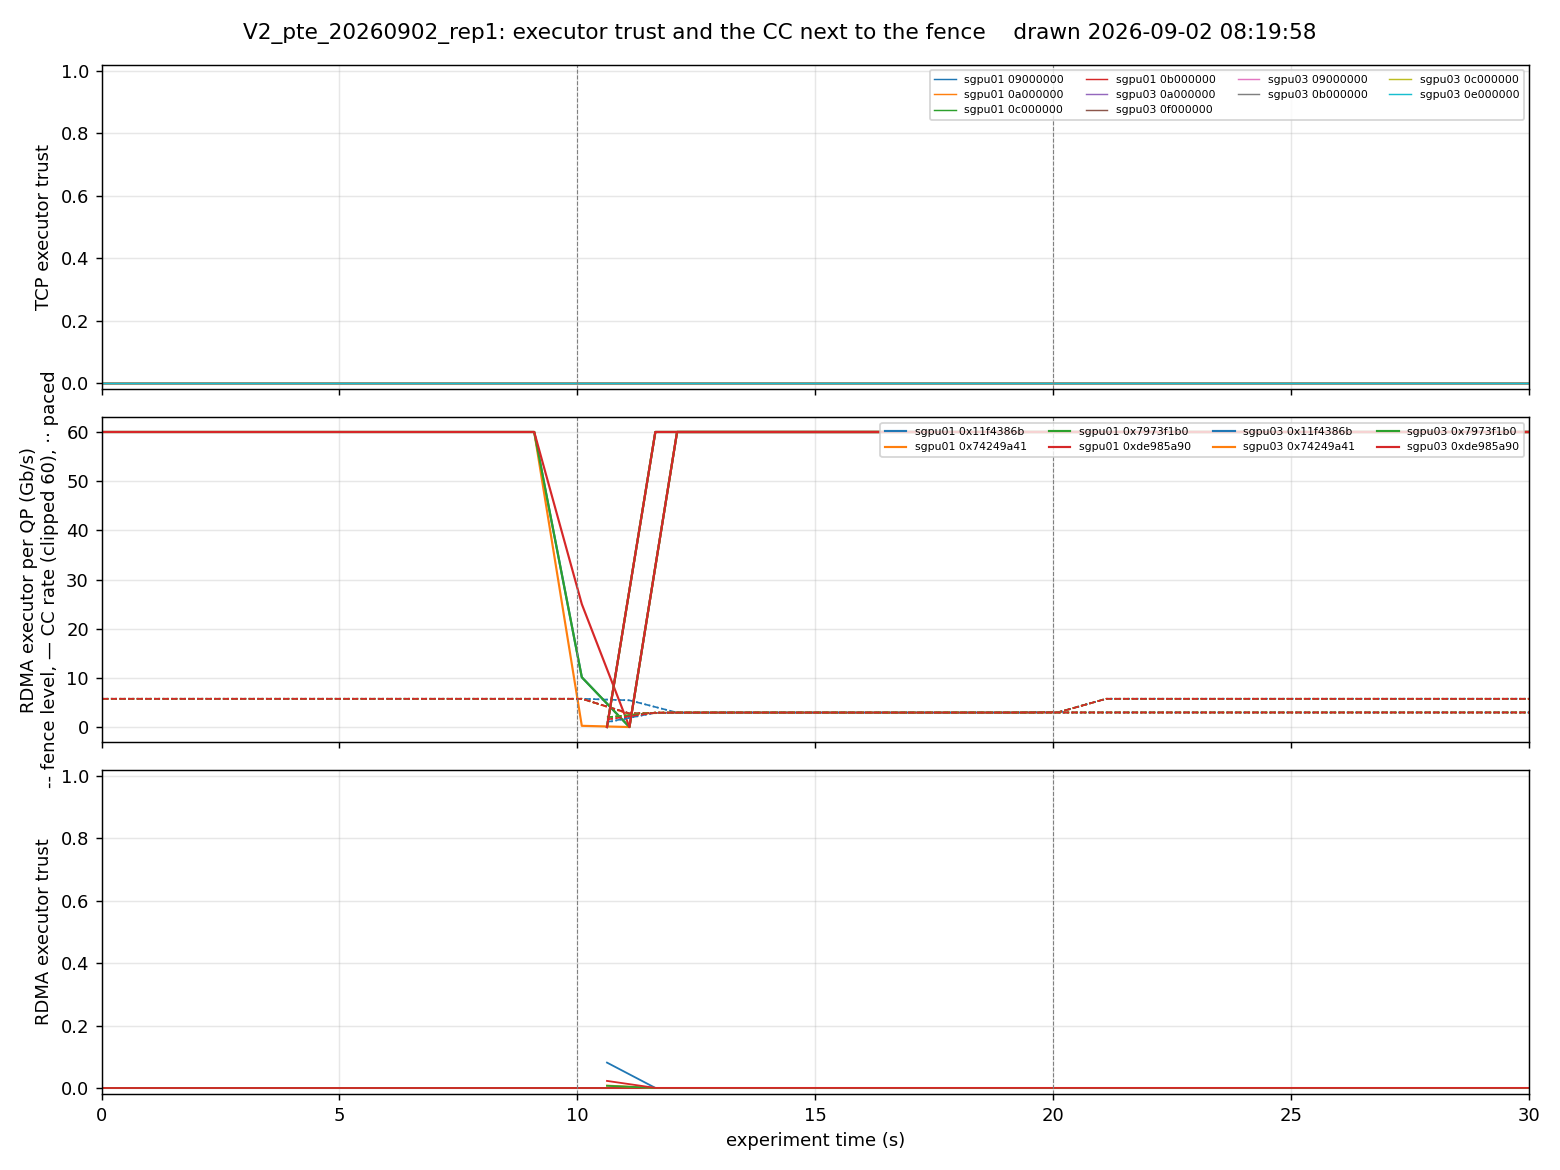
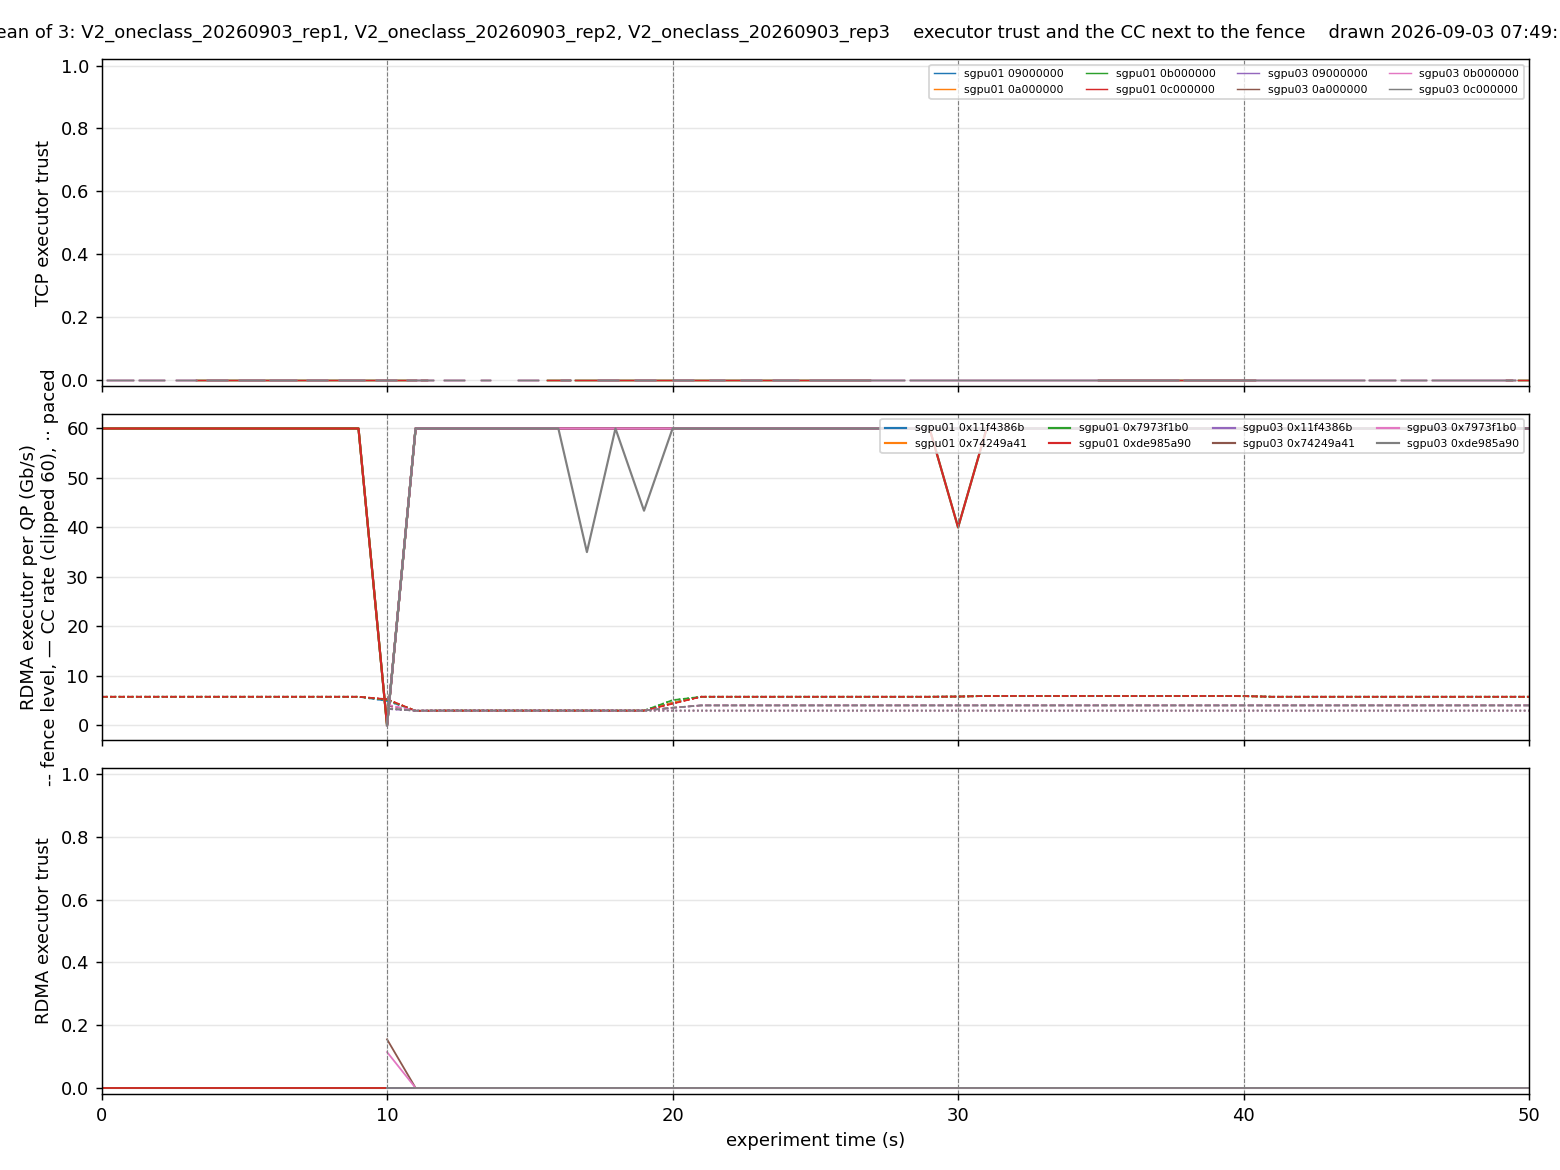
plot：多遍运行按时间逐点平均画成一张（timeline.py/trust.py 接受逗号连接的多个 tag）；V2 三遍合成一张图，删去逐遍的三张

diff --git a/validation/plot/timeline.py b/validation/plot/timeline.py
@@ -1,5 +1,5 @@
 #!/usr/bin/env python3
-"""fig/<tag>_timeline.png: what the run looked like, on the experiment clock.
+"""fig/<base>_timeline.png: what the run looked like, on the experiment clock.
   panel 1  attributed rate of every flow-set (receiver agent, drawn at 100 ms
            to match panel 2; the agent logs at 20 ms and the criteria in
            distill.py read that raw series, not this one), RDMA red /
@@ -9,37 +9,68 @@
            stacked, plus the C' line
   panel 3  virtual queue per flow-set (ms)
 Reads only data/ (distill.py output) plus results/<tag>/flows.txt for the
-expected-rate steps. usage: timeline.py <tag>"""
+expected-rate steps.
+
+usage: timeline.py <tag>[,<tag>,...] [<base>]
+Several tags (the repetitions of one scenario) are averaged point by point on
+the 100 ms experiment clock and drawn as ONE figure - a decision-basis run is
+three repetitions, and three separate pictures of the same scenario say less
+than their mean. The title names every tag that went in. <base> is the
+figure-name prefix (default: the first tag's scenario id); two-arm scenarios
+use it to keep the arms apart."""
 import csv, json, os, sys, time
 import numpy as np
 import matplotlib; matplotlib.use("Agg")
 import matplotlib.pyplot as plt
 BASE = os.path.dirname(os.path.dirname(os.path.abspath(__file__)))
 sys.path.insert(0, BASE)
-from distill import load_flows, expected_at, C_ROOT, bin_mean
-tag = sys.argv[1]
-base = sys.argv[2] if len(sys.argv) > 2 else tag.split("_")[0]  # 图名前缀；双臂场景用它区分臂
-R = os.path.join(BASE, "results", tag); D = os.path.join(BASE, "data")
-rows = load_flows(os.path.join(R, "flows.txt"))
-t0 = float(open(os.path.join(R, "t0.txt")).read()); warm = float(open(os.path.join(R, "warm.txt")).read())
-z = t0 + warm; end = max(r["end"] for r in rows)
-rx = [json.loads(l) for l in open(os.path.join(R, "rx.jsonl")) if l.strip()]
-rx = [(x["ts"] - z, x) for x in rx if -1 <= x["ts"] - z <= end + 1]
-T = [t for t, _ in rx]
+from distill import load_flows, expected_at, C_ROOT
+tags = [t for t in sys.argv[1].split(",") if t]
+base = sys.argv[2] if len(sys.argv) > 2 else tags[0].split("_")[0]
+D = os.path.join(BASE, "data")
+BIN_S = 0.1        # drawing granularity, matching the wire panel
+
+
+def binned(T, V, grid):
+    """Mean of V over each grid cell [g, g+BIN_S); NaN where empty."""
+    out = np.full(len(grid), np.nan)
+    idx = np.floor((np.asarray(T) - grid[0]) / BIN_S).astype(int)
+    V = np.asarray(V, dtype=float)
+    for i in range(len(grid)):
+        m = idx == i
+        if m.any():
+            out[i] = V[m].mean()
+    return out
+
+
+runs = []
+for tag in tags:
+    R = os.path.join(BASE, "results", tag)
+    rows = load_flows(os.path.join(R, "flows.txt"))
+    t0 = float(open(os.path.join(R, "t0.txt")).read()); warm = float(open(os.path.join(R, "warm.txt")).read())
+    z = t0 + warm; end = max(r["end"] for r in rows)
+    rx = [json.loads(l) for l in open(os.path.join(R, "rx.jsonl")) if l.strip()]
+    rx = [(x["ts"] - z, x) for x in rx if -1 <= x["ts"] - z <= end + 1]
+    with open(os.path.join(D, f"{tag}_vmclass.csv")) as f:
+        vm = list(csv.DictReader(f))
+    runs.append((rows, end, rx, vm))
+rows, end = runs[0][0], runs[0][1]
+grid = np.arange(0, end + BIN_S / 2, BIN_S)
 hosts = []
 for r in rows:
     if r["host"] not in hosts:
         hosts.append(r["host"])
 col = {"rdma": "#d62728", "tcp": "#1f77b4"}
 fig, ax = plt.subplots(3, 1, figsize=(12, 9.5), sharex=True)
-BIN_S = 0.1        # drawing granularity, matching the wire panel
 for r in [r for r in rows if r["cls"] in col]:
     f = r["fsid"]
-    bt, bv = bin_mean(T, [x["r"].get(f, 0) / 1e9 for _, x in rx], BIN_S)
-    ax[0].plot(bt, bv, color=col[r["cls"]], lw=0.8,
+    rate = np.nanmean([binned([t for t, _ in rx], [x["r"].get(f, 0) / 1e9 for _, x in rx], grid)
+                       for _, _, rx, _ in runs], axis=0)
+    q = np.nanmean([binned([t for t, _ in rx], [x.get("d", {}).get(f, 0) for _, x in rx], grid)
+                    for _, _, rx, _ in runs], axis=0)
+    ax[0].plot(grid, rate, color=col[r["cls"]], lw=0.8,
                ls="-" if r["host"] == hosts[0] else "--", alpha=0.85)
-    qt, qv = bin_mean(T, [x.get("d", {}).get(f, 0) for _, x in rx], BIN_S)
-    ax[2].plot(qt, qv, color=col[r["cls"]], lw=0.7, alpha=0.7)
+    ax[2].plot(grid, q, color=col[r["cls"]], lw=0.7, alpha=0.7)
 # expected steps: one dotted line per distinct trajectory
 tt = np.arange(0, end, 0.25); traj = {}
 for f in {r["fsid"] for r in rows if r["cls"] in col}:
@@ -53,12 +84,18 @@ if len(hosts) > 1:
     ax[0].plot([], [], color="k", ls="--", label="from " + "/".join(hosts[1:]))
 ax[0].plot([], [], color="k", ls=":", label="expected")
 ax[0].set_ylabel("attributed rate per flow-set (Gb/s), 100 ms"); ax[0].legend(ncol=5, fontsize=8); ax[0].grid(alpha=0.3)
-with open(os.path.join(D, f"{tag}_vmclass.csv")) as f:
-    rd = list(csv.DictReader(f))
-vt = np.array([float(r["t"]) for r in rd]); cols = [c for c in rd[0] if c != "t"]
-stack = np.array([[float(r[c]) for r in rd] for c in cols]); stack = np.nan_to_num(stack)
+# wire per VM per class: distill writes every run on the same 100 ms grid,
+# so the columns can be averaged row by row after aligning on t
+cols = [c for c in runs[0][3][0] if c != "t"]
+vm_series = {}
+for _, _, _, vm in runs:
+    for row in vm:
+        k = round(float(row["t"]), 2)
+        vm_series.setdefault(k, []).append([float(row[c]) for c in cols])
+vt = np.array(sorted(vm_series))
+stack = np.array([[np.nanmean([v[i] for v in vm_series[t]]) for t in vt] for i in range(len(cols))])
+stack = np.nan_to_num(stack)
 colors = [("#d62728" if c.endswith("rdma") else "#1f77b4") for c in cols]
-alphas = np.linspace(0.35, 0.95, max(len(cols) // 2, 1))
 ax[1].stackplot(vt, stack, colors=colors, alpha=0.7, lw=0.2, edgecolor="white")
 ax[1].axhline(C_ROOT / 1e9, color="k", ls=":", lw=1); ax[1].text(0.5, C_ROOT / 1e9 + 2, "C' = 184 G", fontsize=8)
 ax[1].set_ylabel("wire per VM per class, stacked (Gb/s)"); ax[1].grid(alpha=0.3); ax[1].set_ylim(0, 215)
@@ -69,10 +106,10 @@ for e in sorted({r["start"] for r in rows} | {r["end"] for r in rows}):
             a.axvline(e, color="gray", lw=0.6, ls="--")
 ax[0].set_xlim(0, end)
 # The file name is per-scenario and is overwritten by every run, so the
-# figure has to carry its own identity: stamp the wall-clock second it
-# was drawn, otherwise there is no way to tell which version of the
-# design a saved image belongs to.
-fig.suptitle(f"{tag}: {len(rows)} flow-sets    drawn {time.strftime('%Y-%m-%d %H:%M:%S')}")
+# figure has to carry its own identity: every tag that went in, and the
+# wall-clock second it was drawn.
+title = tags[0] if len(tags) == 1 else f"mean of {len(tags)}: " + ", ".join(tags)
+fig.suptitle(f"{title}    {len(rows)} flow-sets    drawn {time.strftime('%Y-%m-%d %H:%M:%S')}", fontsize=10)
 fig.tight_layout()
 os.makedirs(os.path.join(BASE, "fig"), exist_ok=True)
 fig.savefig(os.path.join(BASE, "fig", f"{base}_timeline.png"), dpi=130); print("ok")

diff --git a/validation/plot/trust.py b/validation/plot/trust.py
@@ -1,5 +1,5 @@
 #!/usr/bin/env python3
-"""fig/<tag>_trust.png: what the two executors did with the tenant CC during
+"""fig/<base>_trust.png: what the two executors did with the tenant CC during
 the run (V7 and any scenario where a CC becomes binding).
   panel 1  TCP executor: trust per pair from the BPF map, 100 ms (one line per
            pair that carried traffic), all sender hosts
@@ -7,39 +7,71 @@ the run (V7 and any scenario where a CC becomes binding).
            rate (cc, solid) and the paced rate (dotted), 1 s samples from the
            device query, one colour per pair
   panel 3  RDMA executor: trust per pair
-Reads results/<tag>/trust_<host>.jsonl and rp_<host>.jsonl. usage: trust.py <tag>"""
-import json, os, sys
+Reads results/<tag>/trust_<host>.jsonl and rp_<host>.jsonl.
+
+usage: trust.py <tag>[,<tag>,...] [<base>]
+Several tags (the repetitions of one scenario) are averaged point by point on
+the experiment clock (100 ms for the TCP map, 1 s for the device samples) and
+drawn as ONE figure; the title names every tag that went in."""
+import json, os, sys, warnings
+warnings.filterwarnings("ignore", category=RuntimeWarning)   # all-NaN bins are expected
 import time
+import numpy as np
 import matplotlib; matplotlib.use("Agg")
 import matplotlib.pyplot as plt
 BASE = os.path.dirname(os.path.dirname(os.path.abspath(__file__)))
-tag = sys.argv[1]
-base = sys.argv[2] if len(sys.argv) > 2 else tag.split("_")[0]  # 图名前缀；双臂场景用它区分臂
-R = os.path.join(BASE, "results", tag)
-t0 = float(open(os.path.join(R, "t0.txt")).read()); warm = float(open(os.path.join(R, "warm.txt")).read()); z = t0 + warm
-rows = [l.split() for l in open(os.path.join(R, "flows.txt")) if l.strip() and not l.startswith("#")]
-end = max(float(r[6]) for r in rows); events = sorted({float(r[5]) for r in rows} | {float(r[6]) for r in rows})
+tags = [t for t in sys.argv[1].split(",") if t]
+base = sys.argv[2] if len(sys.argv) > 2 else tags[0].split("_")[0]
+
+
+def binned(T, V, grid, step):
+    out = np.full(len(grid), np.nan)
+    idx = np.floor((np.asarray(T) - grid[0]) / step).astype(int)
+    V = np.asarray(V, dtype=float)
+    for i in range(len(grid)):
+        m = idx == i
+        if m.any():
+            out[i] = V[m].mean()
+    return out
+
+
+tcp, rp = {}, {}      # (host, key) -> [series per run]; (host, ft) -> [series per run]
+for tag in tags:
+    R = os.path.join(BASE, "results", tag)
+    t0 = float(open(os.path.join(R, "t0.txt")).read()); warm = float(open(os.path.join(R, "warm.txt")).read()); z = t0 + warm
+    rows = [l.split() for l in open(os.path.join(R, "flows.txt")) if l.strip() and not l.startswith("#")]
+    end = max(float(r[6]) for r in rows); events = sorted({float(r[5]) for r in rows} | {float(r[6]) for r in rows})
+    for fn in sorted(os.listdir(R)):
+        if fn.startswith("trust_") and fn.endswith(".jsonl"):
+            host = fn[6:-6]; per = {}
+            for l in open(os.path.join(R, fn)):
+                if l.strip():
+                    x = json.loads(l); per.setdefault(x["key"], []).append((x["ts"] - z, x["trust"]))
+            for k, v in per.items():
+                tcp.setdefault((host, k), []).append(v)
+        if fn.startswith("rp_") and fn.endswith(".jsonl"):
+            host = fn[3:-6]; per = {}
+            for l in open(os.path.join(R, fn)):
+                if l.strip():
+                    x = json.loads(l); per.setdefault(x["ft"], []).append((x["ts"] - z, x))
+            for ft, v in per.items():
+                rp.setdefault((host, ft), []).append(v)
+g100 = np.arange(0, end + 0.05, 0.1); g1 = np.arange(0, end + 0.5, 1.0)
 fig, ax = plt.subplots(3, 1, figsize=(12, 9), sharex=True)
-for fn in sorted(os.listdir(R)):
-    if fn.startswith("trust_") and fn.endswith(".jsonl"):
-        host = fn[6:-6]; per = {}
-        for l in open(os.path.join(R, fn)):
-            if l.strip():
-                x = json.loads(l); per.setdefault(x["key"], []).append((x["ts"] - z, x["trust"]))
-        for k, v in per.items():
-            if max(t for _, t in v) > 0 or len(per) <= 8:
-                ax[0].plot([a for a, _ in v], [b for _, b in v], lw=0.8, label=f"{host} {k[:8]}")
-    if fn.startswith("rp_") and fn.endswith(".jsonl"):
-        host = fn[3:-6]; per = {}
-        for l in open(os.path.join(R, fn)):
-            if l.strip():
-                x = json.loads(l); per.setdefault(x["ft"], []).append((x["ts"] - z, x))
-        for i, (ft, v) in enumerate(sorted(per.items())):
-            c = f"C{i % 10}"; T = [a for a, _ in v]
-            ax[1].plot(T, [b["level"] for _, b in v], color=c, ls="--", lw=0.9)
-            ax[1].plot(T, [min(b["cc"], 60) for _, b in v], color=c, ls="-", lw=1.2, label=f"{host} {ft}")
-            ax[1].plot(T, [b["paced"] for _, b in v], color=c, ls=":", lw=0.9)
-            ax[2].plot(T, [b["trust"] for _, b in v], color=c, lw=1.0)
+for (host, k), runs in sorted(tcp.items()):
+    y = np.nanmean([binned([a for a, _ in v], [b for _, b in v], g100, 0.1) for v in runs], axis=0)
+    if np.nanmax(y) > 0 or len(tcp) <= 8:
+        ax[0].plot(g100, y, lw=0.8, label=f"{host} {k[:8]}")
+for i, ((host, ft), runs) in enumerate(sorted(rp.items())):
+    c = f"C{i % 10}"
+    def mean_of(field, cap=None):
+        return np.nanmean([binned([a for a, _ in v],
+                                  [min(b[field], cap) if cap else b[field] for _, b in v], g1, 1.0)
+                           for v in runs], axis=0)
+    ax[1].plot(g1, mean_of("level"), color=c, ls="--", lw=0.9)
+    ax[1].plot(g1, mean_of("cc", 60), color=c, ls="-", lw=1.2, label=f"{host} {ft}")
+    ax[1].plot(g1, mean_of("paced"), color=c, ls=":", lw=0.9)
+    ax[2].plot(g1, mean_of("trust"), color=c, lw=1.0)
 ax[0].set_ylabel("TCP executor trust"); ax[0].set_ylim(-0.02, 1.02); ax[0].grid(alpha=0.3)
 if ax[0].lines: ax[0].legend(fontsize=6, ncol=4, loc="upper right")
 ax[1].set_ylabel("RDMA executor per QP (Gb/s)\n-- fence level, — CC rate (clipped 60), ·· paced"); ax[1].grid(alpha=0.3)
@@ -48,5 +80,6 @@ ax[2].set_ylabel("RDMA executor trust"); ax[2].set_ylim(-0.02, 1.02); ax[2].grid
 for e in events:
     if 0 < e < end:
         for a in ax: a.axvline(e, color="gray", lw=0.6, ls="--")
-ax[0].set_xlim(0, end); fig.suptitle(f"{tag}: executor trust and the CC next to the fence    drawn {time.strftime('%Y-%m-%d %H:%M:%S')}"); fig.tight_layout()
+title = tags[0] if len(tags) == 1 else f"mean of {len(tags)}: " + ", ".join(tags)
+ax[0].set_xlim(0, end); fig.suptitle(f"{title}    executor trust and the CC next to the fence    drawn {time.strftime('%Y-%m-%d %H:%M:%S')}", fontsize=10); fig.tight_layout()
 fig.savefig(os.path.join(BASE, "fig", f"{base}_trust.png"), dpi=130); print("ok")
